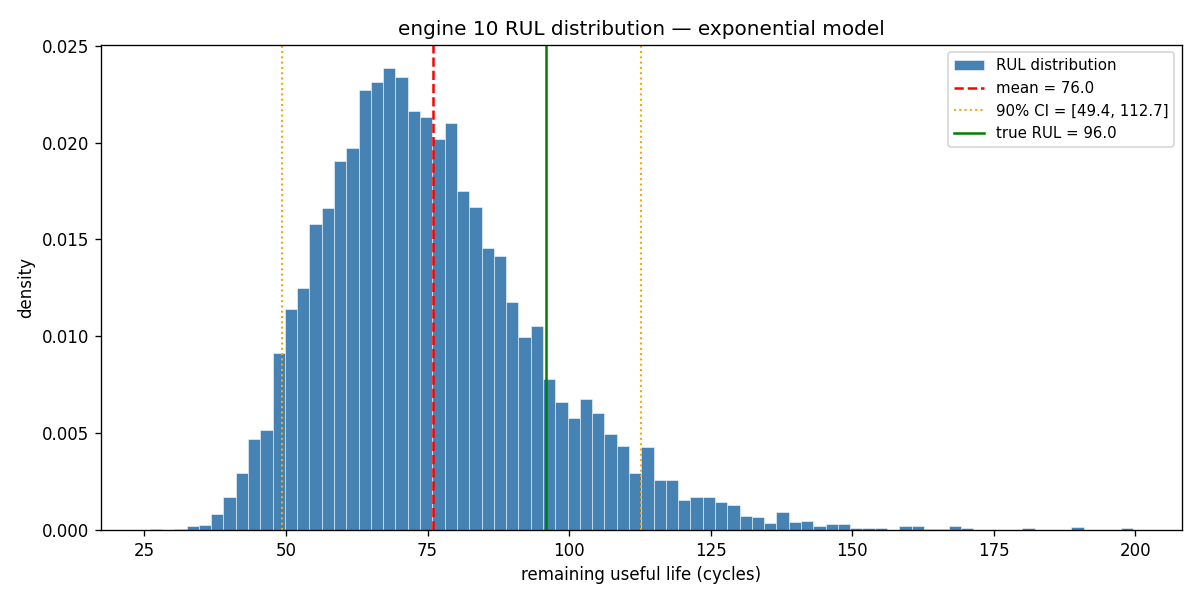
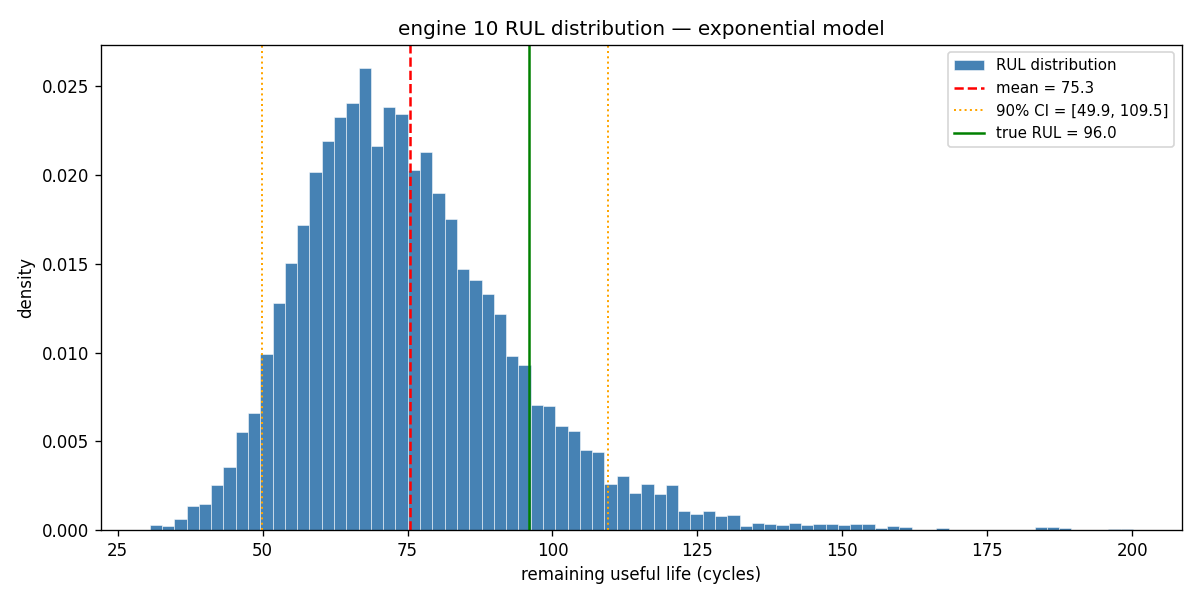
results for exp fitting

diff --git a/06_evaluation_exp.py b/06_evaluation_exp.py
@@ -1,0 +1,237 @@
+import numpy as np
+import matplotlib.pyplot as plt
+import os
+from multiprocessing import Pool
+from scipy.optimize import curve_fit
+
+model   = "exponential"
+fig_dir = f"results/{model}/fleet_S11/figures"
+os.makedirs(fig_dir, exist_ok=True)
+
+train_data   = np.loadtxt("CMAPSSData/train_FD001.txt")
+test_data    = np.loadtxt("CMAPSSData/test_FD001.txt")
+true_rul_all = np.loadtxt("CMAPSSData/RUL_FD001.txt")
+
+s11_col          = 15
+s11_min          = train_data[:, s11_col].min()
+s11_max          = train_data[:, s11_col].max()
+global_max_cycle = train_data[:, 1].max()
+
+# fit h(t) = alpha + beta*exp(gamma*t) to each training engine to get priors
+# same as fit_exp_priors.py — clip outliers before taking mean/std
+def exp_model(t, alpha, beta, gamma):
+    return alpha + beta * np.exp(gamma * t)
+
+print("fitting exponential curves to training engines to derive priors...")
+alphas, betas, gammas = [], [], []
+for eid in range(1, 101):
+    e = train_data[train_data[:, 0] == eid]
+    t = e[:, 1] / global_max_cycle
+    y = (e[:, s11_col] - s11_min) / (s11_max - s11_min)
+    try:
+        popt, _ = curve_fit(exp_model, t, y, p0=[y[0], 0.1, 2.0], maxfev=10000)
+        alphas.append(popt[0]); betas.append(popt[1]); gammas.append(popt[2])
+    except RuntimeError:
+        pass
+
+def clipped_stats(arr):
+    lo, hi = np.percentile(arr, 5), np.percentile(arr, 95)
+    c = np.array(arr)[(np.array(arr) >= lo) & (np.array(arr) <= hi)]
+    return c.mean(), c.std()
+
+mu_alpha, sigma_alpha = clipped_stats(alphas)
+mu_beta,  sigma_beta  = clipped_stats(betas)
+mu_gamma, sigma_gamma = clipped_stats(gammas)
+
+# reparametrised priors: phi=log(beta), psi=log(gamma)
+mu_phi    = np.log(mu_beta)
+sigma_phi = sigma_beta / mu_beta
+mu_psi    = np.log(mu_gamma)
+sigma_psi = sigma_gamma / mu_gamma
+
+sigma_noise = 0.15
+
+# failure threshold — mean s11_norm at last cycle across all training engines
+end_s11 = []
+for eid in range(1, 101):
+    e = train_data[train_data[:, 0] == eid]
+    s11_norm = (e[:, s11_col] - s11_min) / (s11_max - s11_min)
+    end_s11.append(s11_norm[-1])
+failure_threshold = np.mean(end_s11)
+
+# hmc hyperparams — tuned on training engine 10, 78% acceptance
+epsilon   = 0.015
+L         = 15
+n_samples = 10000
+burn_in   = 1000
+
+
+def process_engine(args):
+    engine_id, cycles, y_obs, t_last, true_rul, cfg = args
+
+    mu_a    = cfg["mu_alpha"];    sig_a   = cfg["sigma_alpha"]
+    mu_ph   = cfg["mu_phi"];      sig_ph  = cfg["sigma_phi"]
+    mu_ps   = cfg["mu_psi"];      sig_ps  = cfg["sigma_psi"]
+    sig_n   = cfg["sigma_noise"]
+    eps     = cfg["epsilon"];     Lsteps  = cfg["L"]
+    ns      = cfg["n_samples"];   bi      = cfg["burn_in"]
+    thresh  = cfg["failure_threshold"]
+    gmc     = cfg["global_max_cycle"]
+
+    def log_posterior(alpha, phi, psi):
+        beta  = np.exp(phi)
+        gamma = np.exp(psi)
+        h  = alpha + beta * np.exp(np.clip(gamma * cycles, -500, 500))
+        ll = -0.5 * np.sum(((y_obs - h) / sig_n) ** 2)
+        lp = (-0.5 * ((alpha - mu_a)  / sig_a)  ** 2
+            - 0.5 * ((phi   - mu_ph) / sig_ph) ** 2
+            - 0.5 * ((psi   - mu_ps) / sig_ps) ** 2)
+        return ll + lp
+
+    def compute_gradients(alpha, phi, psi):
+        beta   = np.exp(phi)
+        gamma  = np.exp(psi)
+        exp_gt = np.exp(np.clip(gamma * cycles, -500, 500))
+        r      = y_obs - (alpha + beta * exp_gt)
+        g_alpha = (1/sig_n**2)*np.sum(r)                         - (alpha-mu_a) /sig_a**2
+        g_phi   = (1/sig_n**2)*np.sum(r*exp_gt)*beta             - (phi  -mu_ph)/sig_ph**2
+        g_psi   = (1/sig_n**2)*np.sum(r*beta*cycles*exp_gt)*gamma- (psi  -mu_ps)/sig_ps**2
+        return np.array([g_alpha, g_phi, g_psi])
+
+    def leapfrog(theta, p):
+        theta = theta.copy(); p = p.copy()
+        p += (eps/2) * compute_gradients(theta[0], theta[1], theta[2])
+        for _ in range(Lsteps - 1):
+            theta += eps * p
+            p     += eps * compute_gradients(theta[0], theta[1], theta[2])
+        theta += eps * p
+        p     += (eps/2) * compute_gradients(theta[0], theta[1], theta[2])
+        return theta, p
+
+    theta    = np.array([mu_a, mu_ph, mu_ps])
+    samples  = np.zeros((ns, 3))
+    accepted = 0
+
+    for i in range(ns):
+        p      = np.random.randn(3)
+        H_cur  = -log_posterior(*theta) + 0.5 * np.dot(p, p)
+        th_p, p_p = leapfrog(theta, p)
+        H_prop = -log_posterior(*th_p)  + 0.5 * np.dot(p_p, p_p)
+        if np.log(np.random.rand()) < H_cur - H_prop:
+            theta = th_p; accepted += 1
+        samples[i] = theta
+
+    acc     = accepted / ns
+    post    = samples[bi:]
+    alpha_s = post[:, 0]
+    beta_s  = np.exp(post[:, 1])
+    gamma_s = np.exp(post[:, 2])
+
+    # RUL: t_fail = (1/gamma) * log((threshold - alpha) / beta)
+    # only valid when (threshold - alpha) > 0 and beta > 0
+    numerator = thresh - alpha_s
+    valid_log = numerator > 0   # beta > 0 guaranteed by reparametrisation
+    rul_real  = np.full(len(alpha_s), np.nan)
+    rul_real[valid_log] = (
+        (1 / gamma_s[valid_log]) * np.log(numerator[valid_log] / beta_s[valid_log]) - t_last
+    ) * gmc
+    rul_real = rul_real[rul_real > 0]
+
+    if len(rul_real) == 0:
+        mean_rul = ci_low = ci_high = 0.0
+    else:
+        mean_rul = rul_real.mean()
+        ci_low   = np.percentile(rul_real, 5)
+        ci_high  = np.percentile(rul_real, 95)
+
+    return {
+        "engine_id": engine_id,
+        "mean_rul":  mean_rul,
+        "ci_low":    ci_low,
+        "ci_high":   ci_high,
+        "true_rul":  true_rul,
+        "error":     mean_rul - true_rul,
+        "acc":       acc,
+        "n_cycles":  len(cycles),
+    }
+
+
+if __name__ == "__main__":
+    print(f"derived priors — mu_alpha={mu_alpha:.3f}  sigma_alpha={sigma_alpha:.3f}  "
+          f"mu_beta={mu_beta:.4f}  sigma_beta={sigma_beta:.4f}  "
+          f"mu_gamma={mu_gamma:.3f}  sigma_gamma={sigma_gamma:.3f}")
+    print(f"failure threshold: {failure_threshold:.4f}")
+    print(f"hyperparams — epsilon={epsilon}  L={L}  n_samples={n_samples}  burn_in={burn_in}")
+    print("CI shown as 5th<=x<=95th percentile  |  target acc 60-80%")
+
+    cfg = dict(
+        mu_alpha=mu_alpha,       sigma_alpha=sigma_alpha,
+        mu_phi=mu_phi,           sigma_phi=sigma_phi,
+        mu_psi=mu_psi,           sigma_psi=sigma_psi,
+        sigma_noise=sigma_noise, epsilon=epsilon,
+        L=L, n_samples=n_samples, burn_in=burn_in,
+        failure_threshold=failure_threshold,
+        global_max_cycle=global_max_cycle,
+    )
+
+    engine_args = []
+    for eid in range(1, 101):
+        e          = test_data[test_data[:, 0] == eid]
+        cycles_raw = e[:, 1]
+        cycles     = cycles_raw / global_max_cycle
+        y_obs      = (e[:, s11_col] - s11_min) / (s11_max - s11_min)
+        t_last     = cycles_raw.max() / global_max_cycle
+        true_rul   = true_rul_all[eid - 1]
+        engine_args.append((eid, cycles, y_obs, t_last, true_rul, cfg))
+
+    results = []
+    with Pool() as pool:
+        for r in pool.imap_unordered(process_engine, engine_args):
+            results.append(r)
+            print(f"E{r['engine_id']:3d}: cycles={r['n_cycles']:3d}  acc={r['acc']:4.0%}  "
+                  f"{r['ci_low']:.0f}<=x<={r['ci_high']:.0f}  "
+                  f"pred={r['mean_rul']:.0f}  true={r['true_rul']:.0f}  err={r['error']:+.0f}")
+
+    results.sort(key=lambda x: x["engine_id"])
+
+    errors     = np.array([r["error"]    for r in results])
+    abs_errors = np.abs(errors)
+    true_ruls  = np.array([r["true_rul"] for r in results])
+    pred_ruls  = np.array([r["mean_rul"] for r in results])
+    ci_highs   = np.array([r["ci_high"]  for r in results])
+
+    print(f"\nsummary:")
+    print(f"mae:        {abs_errors.mean():.1f} cycles")
+    print(f"rmse:       {np.sqrt((errors**2).mean()):.1f} cycles")
+    print(f"mean error (bias): {errors.mean():+.1f} cycles")
+    print(f"90% confident fleet fails within median {np.median(ci_highs):.0f} cycles  "
+          f"(vs median true RUL: {np.median(true_ruls):.0f})")
+
+    # plot 1: predicted vs true
+    fig, ax = plt.subplots(figsize=(8, 8))
+    ax.scatter(true_ruls, pred_ruls, alpha=0.6, s=30, color="steelblue")
+    lims = [0, max(true_ruls.max(), pred_ruls.max()) * 1.05]
+    ax.plot(lims, lims, "r--", linewidth=1, label="perfect prediction")
+    ax.set_xlabel("true RUL (cycles)")
+    ax.set_ylabel("predicted RUL (cycles)")
+    ax.set_title("predicted vs true RUL — all 100 test engines, exponential model")
+    ax.legend(fontsize=9)
+    plt.tight_layout()
+    plt.savefig(f"{fig_dir}/pred_vs_true_rul.png", dpi=120)
+    plt.close()
+    print("saved pred_vs_true_rul.png")
+
+    # plot 2: error distribution
+    fig, ax = plt.subplots(figsize=(9, 4))
+    ax.hist(errors, bins=30, color="steelblue", edgecolor="white", linewidth=0.3)
+    ax.axvline(0,             color="red",    linewidth=1.2, linestyle="--", label="zero error")
+    ax.axvline(errors.mean(), color="orange", linewidth=1.2, linestyle="--",
+               label=f"mean={errors.mean():+.1f}")
+    ax.set_xlabel("prediction error (pred - true) cycles")
+    ax.set_ylabel("count")
+    ax.set_title("RUL prediction error distribution — 100 test engines, exponential model")
+    ax.legend(fontsize=9)
+    plt.tight_layout()
+    plt.savefig(f"{fig_dir}/error_distribution.png", dpi=120)
+    plt.close()
+    print("saved error_distribution.png")
